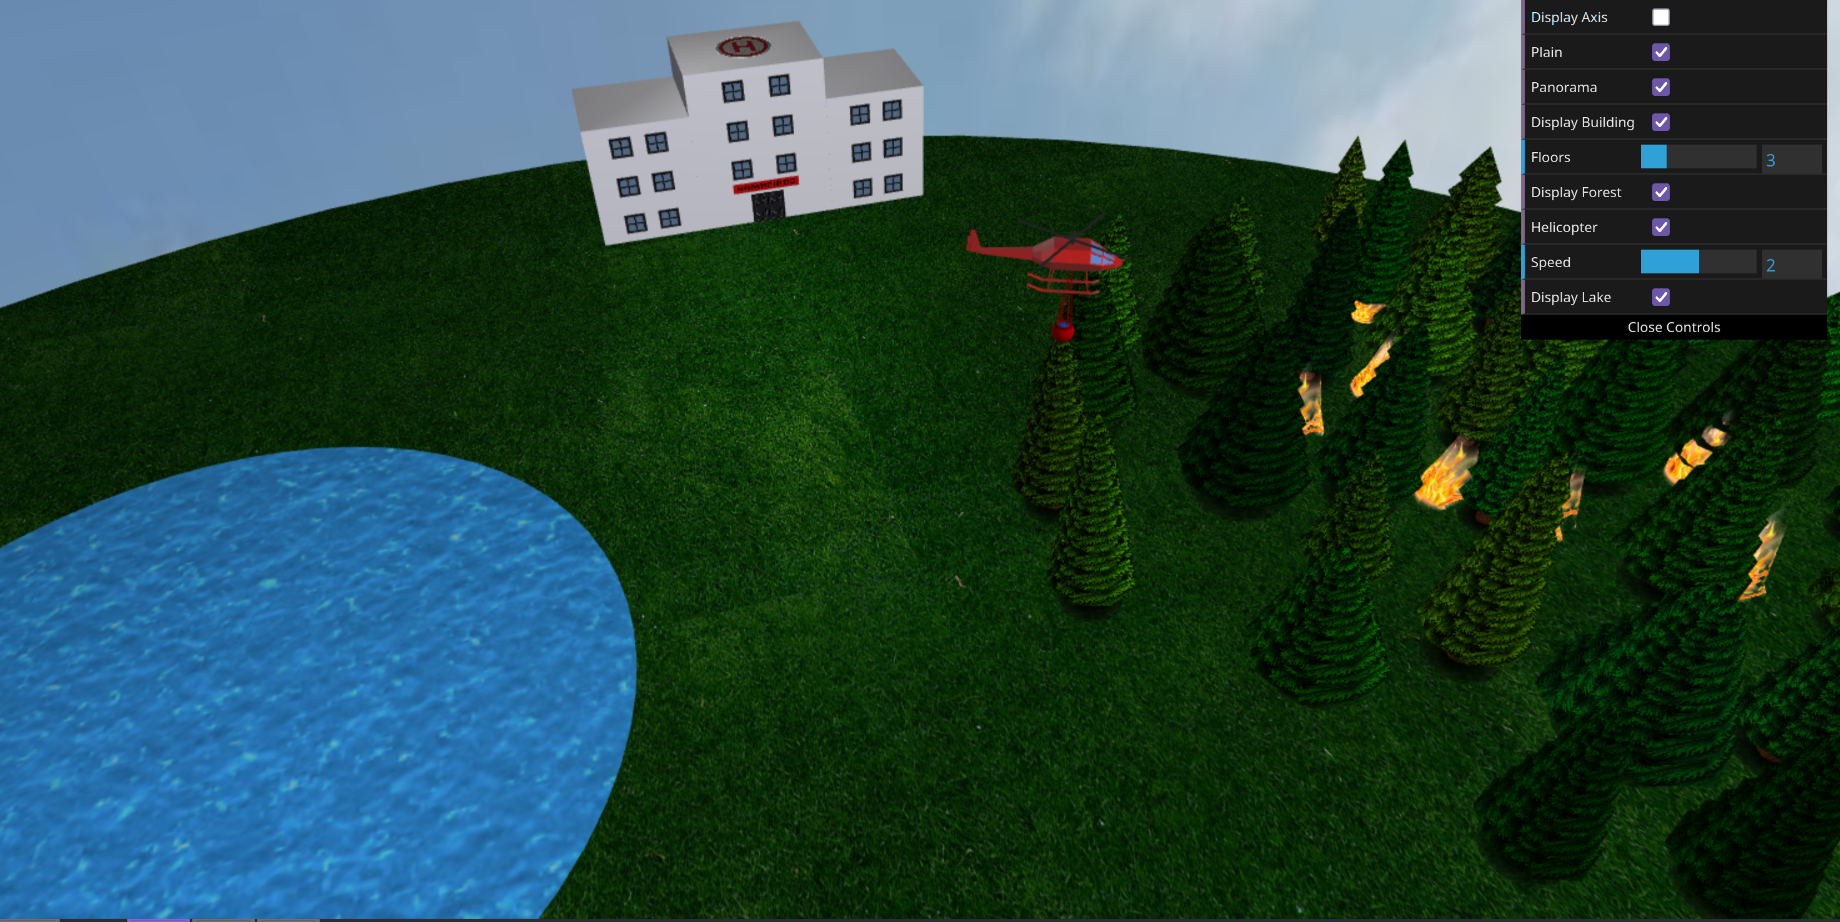
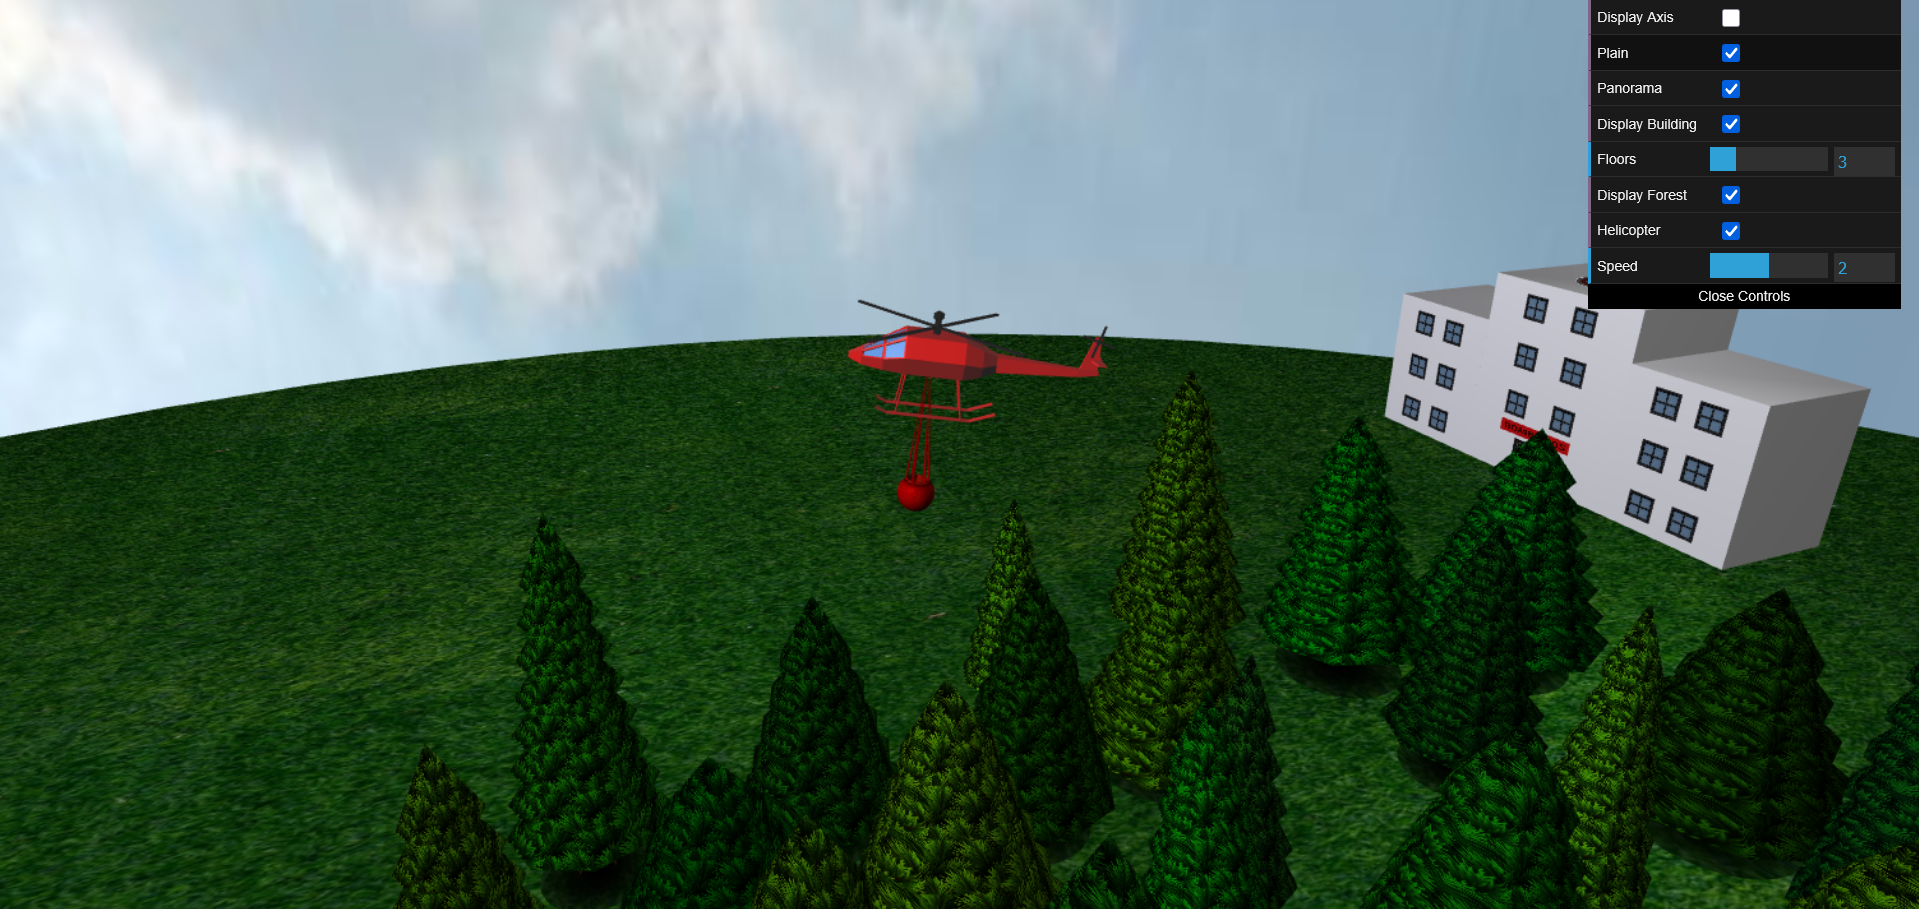
All implemented

diff --git a/project/MyHeli.js b/project/MyHeli.js
@@ -109,11 +109,20 @@ export class MyHeli extends CGFobject {
 
         // Extinguishing fire state
         this.fireRadius = 20;
+
+        // Water drop animation
+        this.waterDropping = false;
+        this.waterDropPosition = vec3.create();
+        this.waterDropVelocity = vec3.create();
+        this.waterDropGravity = -0.5;
+        this.waterDropTargetPosition = vec3.create();
+        this.dropStartPosition = vec3.create();
     }
 
     update(t, delta_t, speedFactor = 1.0) {
         this.updateHelix(delta_t);
         this.updateBucketPosition(t); 
+        this.updateWaterDrop(delta_t); // Add this line
         const effectiveSpeed = this.speed * speedFactor;
         
         // Apply deceleration when flying and no input is being given
@@ -176,6 +185,34 @@ export class MyHeli extends CGFobject {
                 this.bucketAnimating = false;
             }
         }
+    }
+
+    updateWaterDrop(delta_t) {
+        if (!this.waterDropping) return;
+        
+        // Apply gravity
+        this.waterDropVelocity[1] += this.waterDropGravity * delta_t * 0.01;
+        
+        // Update position
+        const movement = vec3.create();
+        vec3.scale(movement, this.waterDropVelocity, delta_t * 0.01);
+        vec3.add(this.waterDropPosition, this.waterDropPosition, movement);
+        if (this.waterDropPosition[1] <= this.waterPickupAltitude) {
+            this.waterDropPosition[1] = this.waterPickupAltitude;
+            this.completeWaterDrop();
+        }
+    }
+
+    completeWaterDrop() {
+        this.waterDropping = false;
+        this.isExtinguishingFire = true;
+        
+        if (this.scene.forest && typeof this.scene.forest.extinguishFiresInRange === 'function') {
+            this.scene.forest.extinguishFiresInRange(this.targetFireX, this.targetFireZ, 8);
+        }
+        
+        // Reset water drop position
+        vec3.set(this.waterDropPosition, 0, 0, 0);
     }
 
     handleTakeOff(delta_t) {
@@ -322,6 +359,11 @@ export class MyHeli extends CGFobject {
         this.helixRotationSpeed = 0;
         this.bucketAttached = false;
         this.bucketFilled = false;
+        
+        // Reset water drop animation
+        this.waterDropping = false;
+        vec3.set(this.waterDropPosition, 0, 0, 0);
+        vec3.set(this.waterDropVelocity, 0, 0, 0);
     }
 
     takeOff() {
@@ -421,7 +463,7 @@ export class MyHeli extends CGFobject {
     }
 
     extinguishFire() { 
-        if (!this.isFlying || !this.bucketFilled) {
+        if (!this.isFlying || !this.bucketFilled || this.waterDropping) {
             return false;
         }
 
@@ -438,6 +480,7 @@ export class MyHeli extends CGFobject {
         
         // Check if helicopter is over any active fire
         let foundActiveFire = false;
+        let targetFirePosition = null;
         for (const fireData of this.scene.forest.fires) {
             if (!fireData.fire.isExtinguished) {
                 const distanceToFire = Math.sqrt(
@@ -446,25 +489,48 @@ export class MyHeli extends CGFobject {
                 );                
                 if (distanceToFire <= this.fireRadius) { 
                     foundActiveFire = true;
+                    targetFirePosition = vec3.fromValues(fireData.x, 0, fireData.z);
                     break;
                 }
             }
         }
         
-        if (!foundActiveFire) {
+        if (!foundActiveFire || !targetFirePosition) {
             return false;
         }
         
-        this.isExtinguishingFire = true;
-        this.bucketFilled = false;
+        // Start water drop animation
+        this.startWaterDrop(targetFirePosition, finalX, finalZ);
         
-        // Extinguish fires in range
-        if (this.scene.forest && typeof this.scene.forest.extinguishFiresInRange === 'function') {
-            const extinguished = this.scene.forest.extinguishFiresInRange(finalX, finalZ, this.fireRadius);
-            return extinguished > 0;
-        }
+        return true;
+    }
+
+    startWaterDrop(targetFirePosition, finalX, finalZ) {
+        this.waterDropping = true;
+        this.bucketFilled = false; 
         
-        return false;
+        vec3.set(this.dropStartPosition, 
+            this.position[0], 
+            this.position[1] - this.bucketVerticalOffset - 14.5, 
+            this.position[2]
+        );
+        vec3.copy(this.waterDropPosition, this.dropStartPosition);
+        
+        let worldTargetX = targetFirePosition[0] * 2 - 165;
+        let worldTargetZ = targetFirePosition[2] + 140;
+        
+        vec3.set(this.waterDropTargetPosition, worldTargetX, 0, worldTargetZ);
+        
+        // Calculate initial velocity toward target
+        const direction = vec3.create();
+        vec3.subtract(direction, this.waterDropTargetPosition, this.waterDropPosition);
+        direction[1] = 0; 
+        vec3.normalize(direction, direction);
+        vec3.scale(this.waterDropVelocity, direction, 0.3); 
+        this.waterDropVelocity[1] = 0;
+        
+        this.targetFireX = targetFirePosition[0]; 
+        this.targetFireZ = targetFirePosition[2]; 
     }
 
     display() {
@@ -504,27 +570,38 @@ export class MyHeli extends CGFobject {
         this.littlehelihelix.display();
         this.scene.popMatrix();
 
-    // Display water bucket
-    if (this.bucketAttached || this.bucketAnimating) {
-        this.bucketMaterial.apply();
-        this.scene.pushMatrix();
-        this.scene.translate(0, -this.bucketVerticalOffset, 0); 
-        this.waterbucket.display();
-        
-        // Display bucket content (water or empty)
-        if( this.bucketFilled) {
+        // Display water bucket
+        if (this.bucketAttached || this.bucketAnimating) {
+            this.bucketMaterial.apply();
             this.scene.pushMatrix();
-            this.scene.translate(0, -14.5, 0); 
+            this.scene.translate(0, -this.bucketVerticalOffset, 0); 
+            this.waterbucket.display();
+            
+            // Display bucket content (water or empty) - only if not dropping
+            if (this.bucketFilled && !this.waterDropping) {
+                this.scene.pushMatrix();
+                this.scene.translate(0, -14.5, 0); 
+                this.scene.rotate(Math.PI / 2, 1, 0, 0);
+                this.scene.scale(1.5, 1.5, 2); 
+                this.waterMaterial.apply();
+                this.bucketContent.material = this.waterMaterial;
+                this.bucketContent.display();
+                this.scene.popMatrix();
+            }
+            this.scene.popMatrix();
+        }
+        
+        this.scene.popMatrix();
+        
+        // Display falling water cylinder (outside helicopter transform)
+        if (this.waterDropping) {
+            this.scene.pushMatrix();
+            this.scene.translate(this.waterDropPosition[0], this.waterDropPosition[1], this.waterDropPosition[2]);
             this.scene.rotate(Math.PI / 2, 1, 0, 0);
-            this.scene.scale(1.5, 1.5, 2); 
+            this.scene.scale(1.5, 1.5, 2);
             this.waterMaterial.apply();
-            this.bucketContent.material = this.waterMaterial;
             this.bucketContent.display();
             this.scene.popMatrix();
         }
-        this.scene.popMatrix();
-    }
-        
-    this.scene.popMatrix();
     }
 }

diff --git a/project/MyBuilding.js b/project/MyBuilding.js
@@ -68,10 +68,9 @@ export class MyBuilding extends CGFobject {
     }
 
     updateHelipadDisplay(deltaTime) {
-        // Update shader uniforms instead of switching materials
         this.timeFactor = (this.timeFactor || 0) + deltaTime;
         
-        let state = 0; // normal
+        let state = 0; 
         if (this.helipadState === 'takeoff') {
             state = 1;
         } else if (this.helipadState === 'landing') {
@@ -79,9 +78,9 @@ export class MyBuilding extends CGFobject {
         }
         
         this.helipadShader.setUniformsValues({
-            uTimeFactor: this.timeFactor * 0.01,
+            uTimeFactor: this.timeFactor * 0.001,
             uState: state,
-            uBlinkInterval: 1
+            uBlinkInterval: 2
         });
         
         // Update light shader

diff --git a/project/README.md b/project/README.md
@@ -34,9 +34,12 @@
 - The helicopter must be positioned over the lake to fill its water bucket.
 
 ### Interactions
-- To extinguish the fire, the user must pilot the helicopter to the lake, collect water, and then drop it over the burning areas.
+- To extinguish the fire, the user must pilot the helicopter to the lake, stop, collect water, and then drop it over the burning areas.
 - The fire is gradually extinguished in the areas hit by water, with visual feedback.
 - The cycle can be repeated to put out all fire sources.
+
+### Additional Development
+- The additional development we choose as the "B", where you can see the heliport change from its normal form with an "H" in the middle to an "UP" or a "DOWN" depending on its actions.
 
 ### Graphical Interface
 - The interface was designed to look as realistic and visually appealing as possible, providing an immersive experience for the user.
@@ -61,13 +64,17 @@
 
 ### 4. Helicopter
 
-![Screenshot 5](screenshots/project-t03g03-4a.png)
-![Screenshot 6](screenshots/project-t03g03-4b.png)
+![Screenshot 5](screenshots/project-t03g03-4.png)
+![Screenshot 6](screenshots/project-t03g03-5.png)
 
 ### 5. Water and Fire
 
-![Screenshot 7](screenshots/project-t03g03-5.png)
-
-### 5. Flame Ripple
-
 ![Screenshot 7](screenshots/project-t03g03-6.png)
+
+### 6. Flame Ripple
+
+![Screenshot 8](screenshots/project-t03g03-7.png)
+
+### 7. Additional Developments
+
+![Screenshot 9](screenshots/project-t03g03-8.png)
